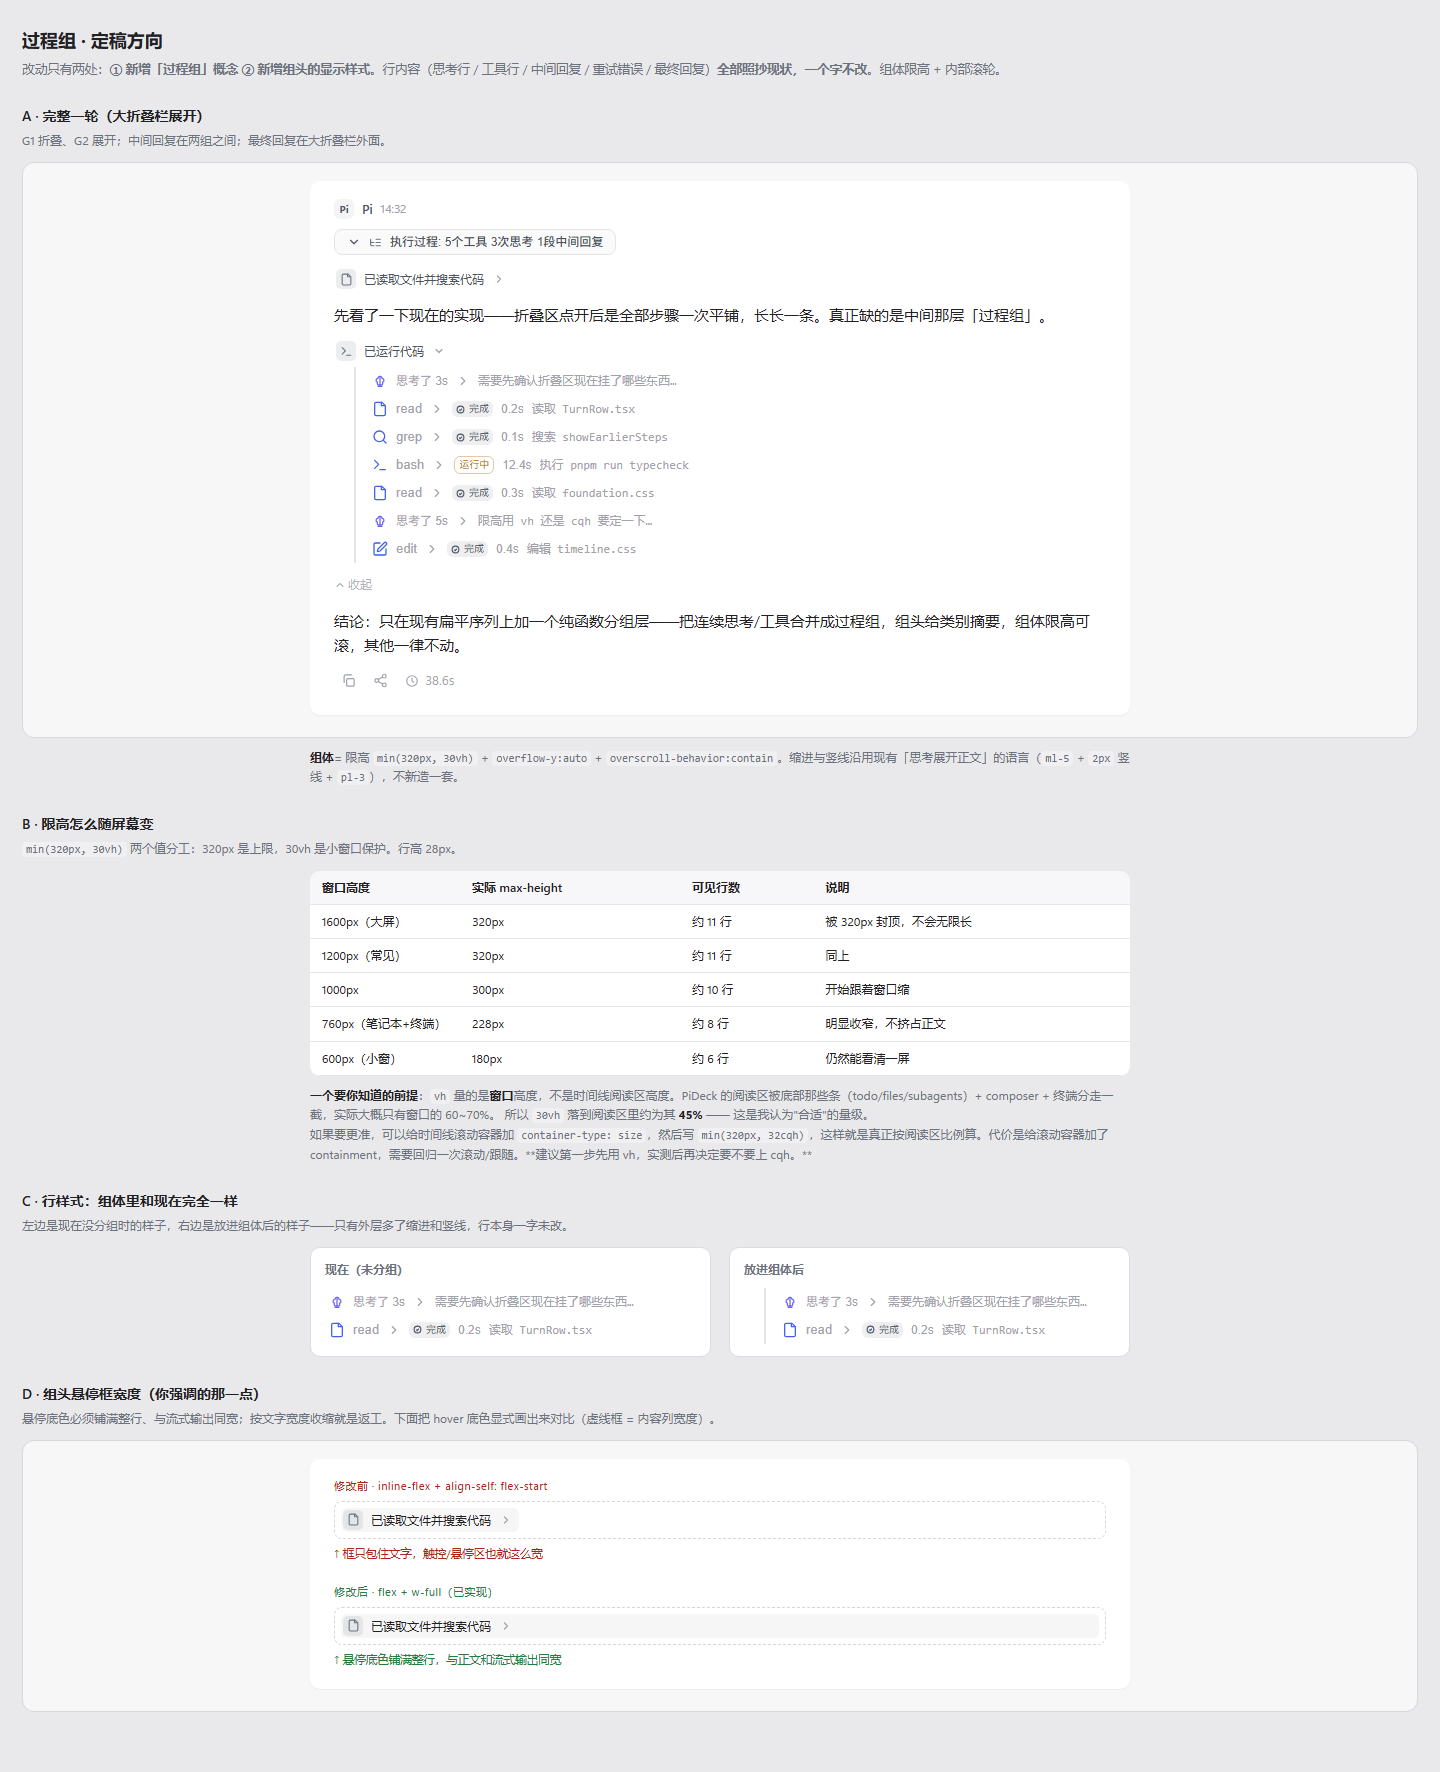
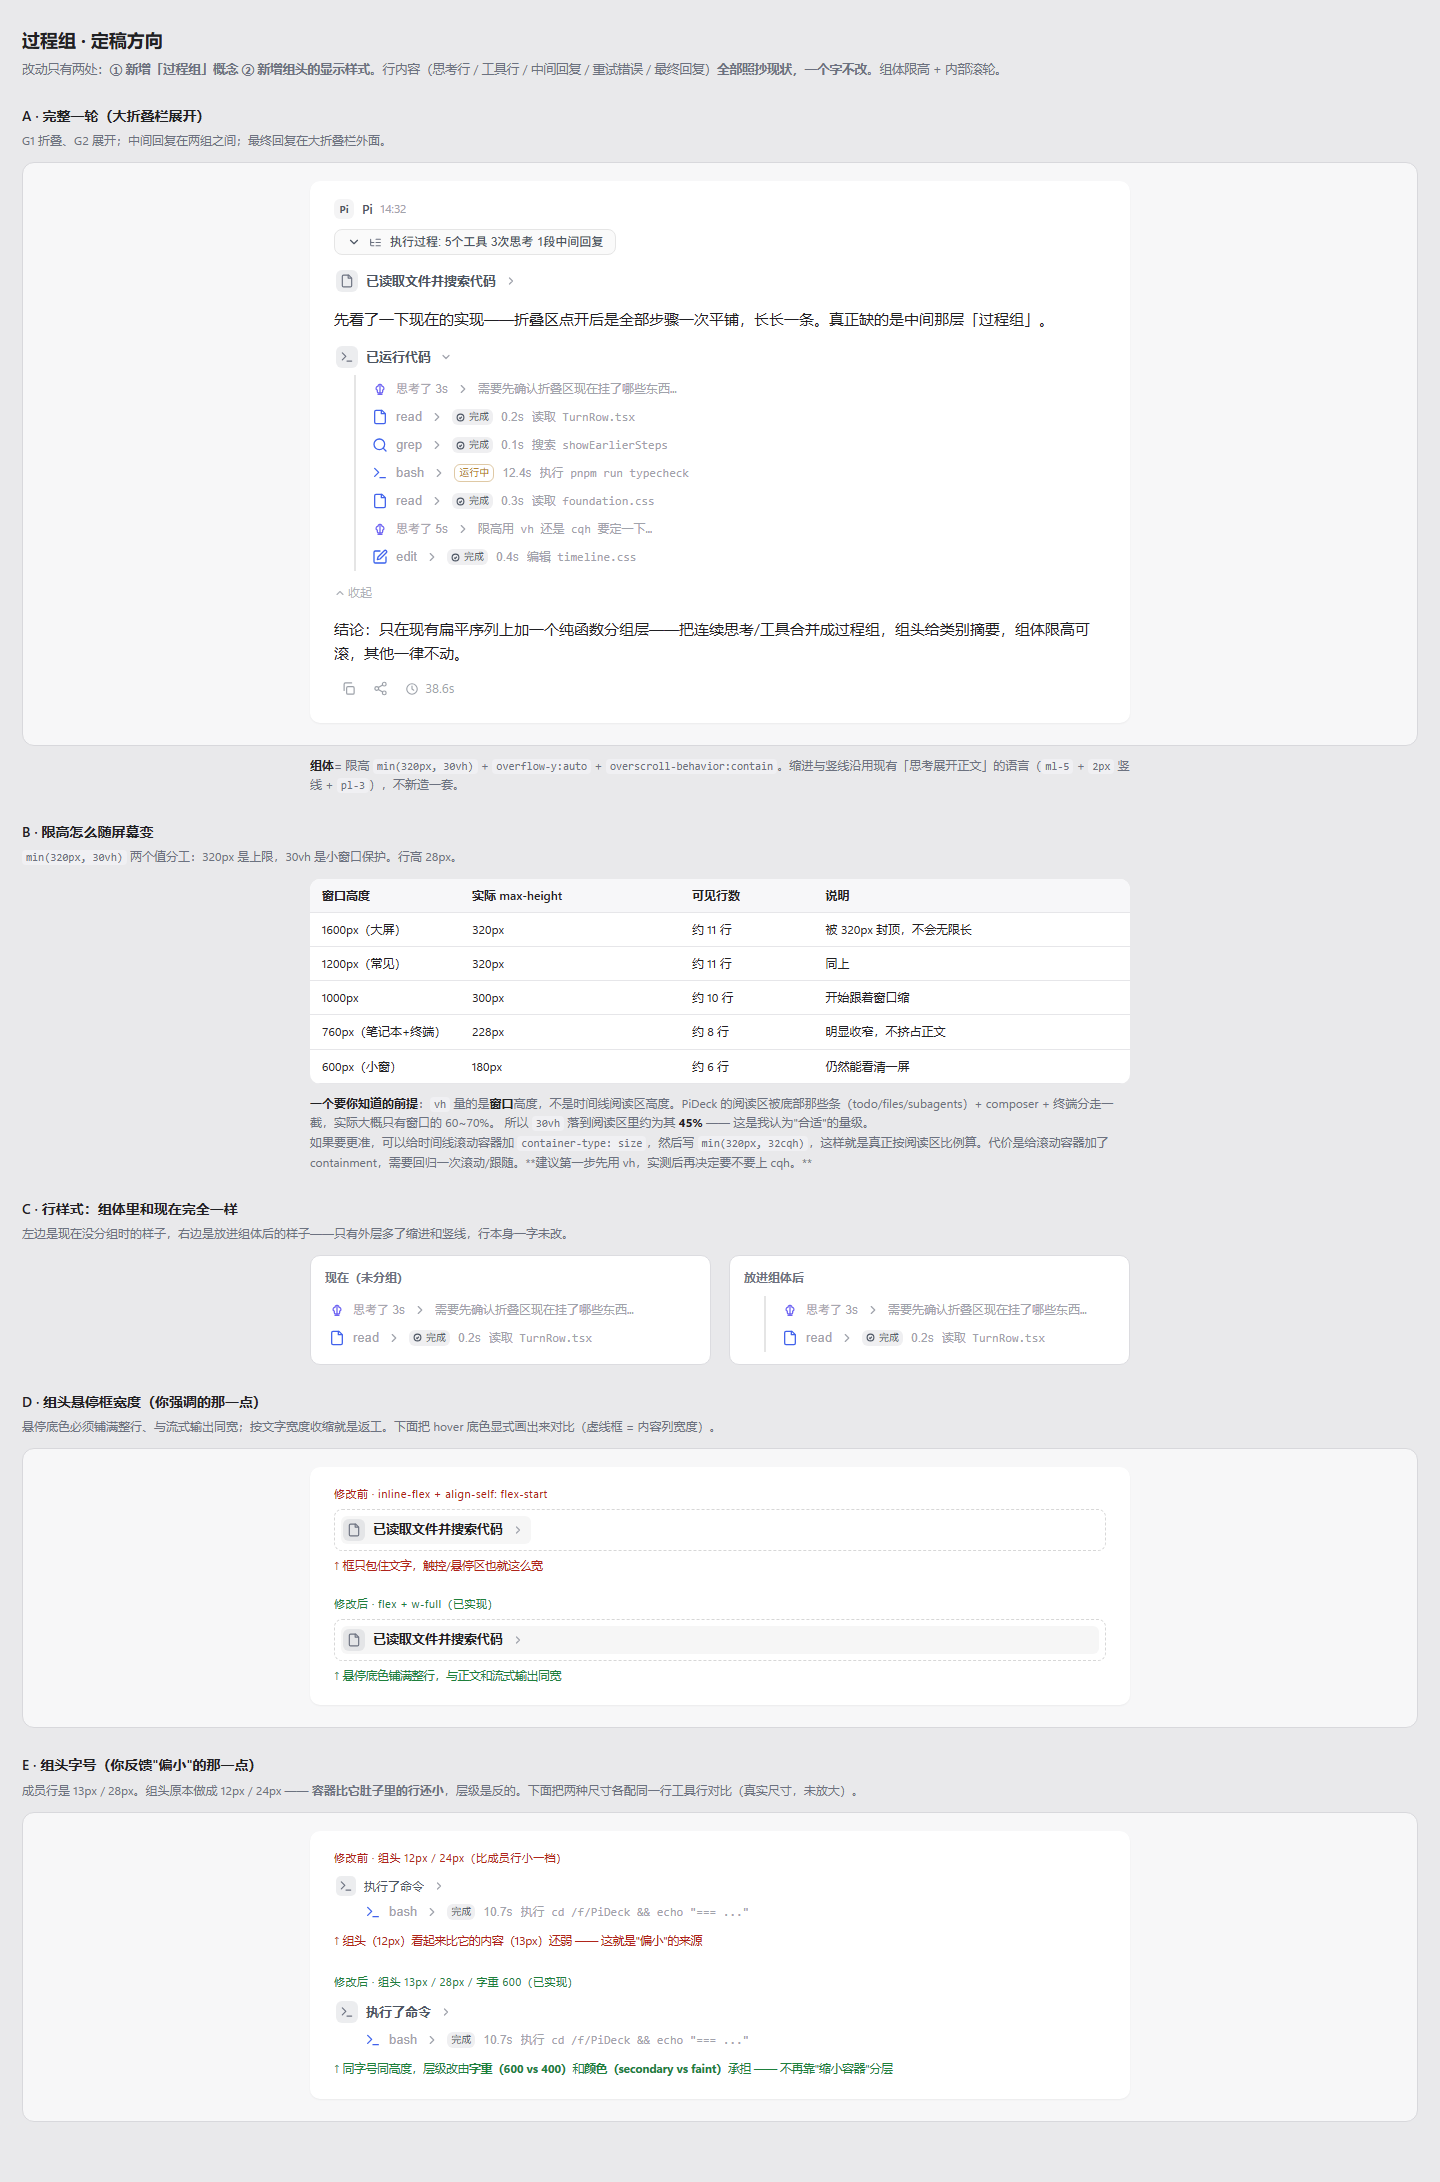
fix(timeline): 组头尺寸不得小于组体内容（容器比内容小 = 层级倒置）
用户反馈「组头字号什么都偏小」。查下来不是选小了一档，而是层级倒置：
组头原本 12px / 24px / 图标 13px，而它肚子里的成员行是 13px / 28px / 图标 16px。

- 组头改 text-control(13px) + h-7(28px) + font-semibold(600)
- 类别图标方块 20px → 22px，方块内图标 13px → 14px
- 运行中详情的 text-[length:11.5px] 换成语义 token text-caption
- 层级改由字重（600 vs 400）与颜色（secondary vs faint）承担，不再靠缩小容器分层
- 新增回归守卫「组头不得小于组体里的行」；契约 §4 补上尺寸规则

根因记录：原先以 .execution-summary-toggle（12px / 26px 的外层胶囊）为对齐基准，
但组头是中间层容器，基准应是它自己的成员行——参照物选错。

顺带：e2e spec 补上 #boot-overlay 等待与 composer 先点击（对齐既有 typewriter.spec.ts）。
另记录一条环境事实：本会话环境存在 ELECTRON_RUN_AS_NODE=1，会让 Electron 退化成普通 Node
（表现为 electron.launch 报 bad option: --remote-debugging-port=0、require("electron") 解析失败），
清掉该变量后 Electron 可正常启动；但既有 typewriter.spec.ts 清掉后仍卡在「启动 Agent」
找不到，属环境 / fixture 限制，与本改动无关。

验证：npm run typecheck（exit 0）；针对性单测 80/80；biome format 2050 文件无待修。

diff --git a/docs/mockups/process-group-scroll.html b/docs/mockups/process-group-scroll.html
@@ -55,9 +55,10 @@
 
 			/* ── 新增：过程组组头 ── */
 			.group { display: flex; flex-direction: column; }
-			.g-head { display: flex; align-items: center; gap: 8px; width: 100%; height: 24px; padding: 0 7px 0 2px; border: 0; border-radius: 6px; background: transparent; color: var(--text-secondary); font: inherit; font-size: var(--font-size-caption); font-weight: 500; line-height: var(--line-height-caption); cursor: pointer; transition: background-color .14s ease, color .14s ease; }
+			.g-head { display: flex; align-items: center; gap: 8px; width: 100%; height: 28px; padding: 0 7px 0 2px; border: 0; border-radius: 6px; background: transparent; color: var(--text-secondary); font: inherit; font-size: var(--font-size-control); font-weight: 600; line-height: var(--line-height-control); cursor: pointer; transition: background-color .14s ease, color .14s ease; }
 			.g-head:hover { background: color-mix(in srgb, var(--text-primary) 4%, transparent); color: var(--text-primary); }
-			.g-chip { flex: none; display: inline-grid; place-items: center; width: 20px; height: 20px; border-radius: 5px; background: color-mix(in srgb, var(--tool) 12%, transparent); color: var(--tool); }
+			.g-chip { flex: none; display: inline-grid; place-items: center; width: 22px; height: 22px; border-radius: 6px; background: color-mix(in srgb, var(--tool) 12%, transparent); color: var(--tool); }
+			.g-chip svg { width: 14px; height: 14px; }
 			.g-head[data-done] .g-chip { background: color-mix(in srgb, var(--text-tertiary) 13%, transparent); color: var(--text-tertiary); }
 			.g-label { min-width: 0; overflow: hidden; text-overflow: ellipsis; white-space: nowrap; }
 			.g-chev { flex: none; display: inline-flex; margin-left: 1px; color: var(--text-faint); }
@@ -316,6 +317,43 @@
 					</button>
 				</div>
 				<div style="color: #15803d; font-size: 11.5px; margin-top: 6px">↑ 悬停底色铺满整行，与正文和流式输出同宽</div>
+			</div>
+		</div>
+		<h2>E · 组头字号（你反馈"偏小"的那一点）</h2>
+		<p class="h2note">成员行是 13px / 28px。组头原本做成 12px / 24px —— <b>容器比它肚子里的行还小</b>，层级是反的。下面把两种尺寸各配同一行工具行对比（真实尺寸，未放大）。</p>
+		<div class="pane">
+			<div class="col">
+				<div style="color: #b42318; font-size: 11px; letter-spacing: .04em; margin-bottom: 8px">修改前 · 组头 12px / 24px（比成员行小一档）</div>
+				<button class="g-head" data-done style="font-size: var(--font-size-caption); font-weight: 500; height: 24px; line-height: var(--line-height-caption)">
+					<span class="g-chip" style="width: 20px; height: 20px; border-radius: 5px"><svg viewBox="0 0 24 24" fill="none" stroke="currentColor" stroke-width="2" stroke-linecap="round" stroke-linejoin="round"><path d="M4 17l6-6-6-6" /><path d="M12 19h8" /></svg></span>
+					<span class="g-label">执行了命令</span>
+					<span class="g-chev"><svg width="12" height="12" viewBox="0 0 24 24" fill="none" stroke="currentColor" stroke-width="2.4" stroke-linecap="round" stroke-linejoin="round"><path d="M9 18l6-6-6-6" /></svg></span>
+				</button>
+				<button class="trow" style="padding-left: 31px">
+					<span class="ico ico-tool"><svg width="16" height="16" viewBox="0 0 24 24" fill="none" stroke="currentColor" stroke-width="1.9" stroke-linecap="round" stroke-linejoin="round"><path d="M4 17l6-6-6-6" /><path d="M12 19h8" /></svg></span>
+					<span class="tname">bash</span>
+					<span class="tchev"><svg width="14" height="14" viewBox="0 0 24 24" fill="none" stroke="currentColor" stroke-width="2" stroke-linecap="round" stroke-linejoin="round"><path d="M9 18l6-6-6-6" /></svg></span>
+					<span class="badge badge--done">完成</span>
+					<span class="tdur">10.7s</span>
+					<span class="tlabel">执行 cd /f/PiDeck &amp;&amp; echo "=== ..."</span>
+				</button>
+				<div style="color: #b42318; font-size: 11.5px; margin-top: 6px">↑ 组头（12px）看起来比它的内容（13px）还弱 —— 这就是"偏小"的来源</div>
+
+				<div style="color: #15803d; font-size: 11px; letter-spacing: .04em; margin: 22px 0 8px">修改后 · 组头 13px / 28px / 字重 600（已实现）</div>
+				<button class="g-head" data-done>
+					<span class="g-chip"><svg viewBox="0 0 24 24" fill="none" stroke="currentColor" stroke-width="2" stroke-linecap="round" stroke-linejoin="round"><path d="M4 17l6-6-6-6" /><path d="M12 19h8" /></svg></span>
+					<span class="g-label">执行了命令</span>
+					<span class="g-chev"><svg width="12" height="12" viewBox="0 0 24 24" fill="none" stroke="currentColor" stroke-width="2.4" stroke-linecap="round" stroke-linejoin="round"><path d="M9 18l6-6-6-6" /></svg></span>
+				</button>
+				<button class="trow" style="padding-left: 31px">
+					<span class="ico ico-tool"><svg width="16" height="16" viewBox="0 0 24 24" fill="none" stroke="currentColor" stroke-width="1.9" stroke-linecap="round" stroke-linejoin="round"><path d="M4 17l6-6-6-6" /><path d="M12 19h8" /></svg></span>
+					<span class="tname">bash</span>
+					<span class="tchev"><svg width="14" height="14" viewBox="0 0 24 24" fill="none" stroke="currentColor" stroke-width="2" stroke-linecap="round" stroke-linejoin="round"><path d="M9 18l6-6-6-6" /></svg></span>
+					<span class="badge badge--done">完成</span>
+					<span class="tdur">10.7s</span>
+					<span class="tlabel">执行 cd /f/PiDeck &amp;&amp; echo "=== ..."</span>
+				</button>
+				<div style="color: #15803d; font-size: 11.5px; margin-top: 6px">↑ 同字号同高度，层级改由<b>字重（600 vs 400）</b>和<b>颜色（secondary vs faint）</b>承担 —— 不再靠"缩小容器"分层</div>
 			</div>
 		</div>
 	</body>

diff --git a/src/renderer/src/components/session/turn/ProcessGroupStep.tsx b/src/renderer/src/components/session/turn/ProcessGroupStep.tsx
@@ -140,19 +140,22 @@ export const ProcessGroupStep = memo(function ProcessGroupStep(props: ProcessGro
 	return (
 		<div className="flex min-w-0 flex-col" data-process-group-id={props.group.id}>
 			{/* 组头：w-full 占满内容列（与流式输出同宽），hover 底色因此铺满整行；
-			    内部与现有过程行同构：20px 类别图标方块 → 文案 → chevron，左对齐右侧留白。
+			    内部与现有过程行同构：22px 类别图标方块 → 文案 → chevron，左对齐右侧留白。
+			    尺寸规则（2026 用户反馈修正）：组头**不得小于组体里的行**——成员行是
+			    text-control(13px)/min-h-7(28px)/图标 16px，组头取同档 13px/28px 才不会出现
+			    「容器比内容小」的倒置层级；层级改由字重（600 vs 400）与颜色（secondary vs faint）承担。
 			    data-process-group-head 是 e2e/结构测试的稳定锚点（组头、组体、scroller 各一个）。 */}
 			<button
 				type="button"
 				data-process-group-head=""
-				className="flex h-6 w-full min-w-0 cursor-pointer items-center gap-2 rounded-md pl-0.5 pr-[7px] text-left text-caption font-medium text-text-secondary transition-colors duration-150 hover:bg-[color:color-mix(in_srgb,var(--color-text-primary)_4%,transparent)] hover:text-text-primary focus-visible:-outline-offset-2 focus-visible:outline-2 focus-visible:outline-[var(--focus-ring)]"
+				className="flex h-7 w-full min-w-0 cursor-pointer items-center gap-2 rounded-md pl-0.5 pr-[7px] text-left text-control font-semibold text-text-secondary transition-colors duration-150 hover:bg-[color:color-mix(in_srgb,var(--color-text-primary)_4%,transparent)] hover:text-text-primary focus-visible:-outline-offset-2 focus-visible:outline-2 focus-visible:outline-[var(--focus-ring)]"
 				aria-expanded={props.open}
 				aria-controls={bodyId}
 				onClick={() => props.onToggle(!props.open)}
 			>
 				{/* 类别图标方块：运行中 = 工具身份色（12% 透明底 + 该色图标），已结束 = 中性灰（弱化） */}
-				<span aria-hidden="true" className={`grid size-5 shrink-0 place-items-center rounded-[5px] ${props.running ? "bg-[color:color-mix(in_srgb,var(--color-tool)_12%,transparent)] text-[var(--color-tool)]" : "bg-[color:color-mix(in_srgb,var(--color-text-tertiary)_13%,transparent)] text-text-tertiary"}`}>
-					<Icon size={13} aria-hidden="true" />
+				<span aria-hidden="true" className={`grid size-[22px] shrink-0 place-items-center rounded-md ${props.running ? "bg-[color:color-mix(in_srgb,var(--color-tool)_12%,transparent)] text-[var(--color-tool)]" : "bg-[color:color-mix(in_srgb,var(--color-text-tertiary)_13%,transparent)] text-text-tertiary"}`}>
+					<Icon size={14} aria-hidden="true" />
 				</span>
 				{props.running ? (
 					<>
@@ -162,7 +165,7 @@ export const ProcessGroupStep = memo(function ProcessGroupStep(props: ProcessGro
 								<span aria-hidden="true" className="shrink-0 text-text-faint">
 									{t("timeline.processGroup.separator")}
 								</span>
-								<span className="min-w-0 overflow-hidden text-ellipsis whitespace-nowrap font-mono text-[length:11.5px] font-normal text-text-tertiary">{detail}</span>
+								<span className="min-w-0 overflow-hidden text-ellipsis whitespace-nowrap font-mono text-caption font-normal text-text-tertiary">{detail}</span>
 							</>
 						)}
 					</>

diff --git a/e2e/process-group-display.spec.ts b/e2e/process-group-display.spec.ts
@@ -31,9 +31,15 @@ async function startAgent(window: Page) {
 	return composer;
 }
 
-/** 发送一条同时触发思考与工具调用的消息。 */
+/**
+ * 发送一条同时触发思考与工具调用的消息。
+ * 前置两步与既有 e2e（typewriter.spec.ts）一致：先等启动遮罩消失、再点 composer 取焦点，
+ * 否则 `启动 Agent` 根本还没渲染出来（首帧只有窗口控制按钮）。
+ */
 async function runProcessTurn(window: Page) {
-	await startAgent(window);
+	await expect(window.locator("#boot-overlay")).toHaveCount(0, { timeout: 20_000 });
+	const composer = await startAgent(window);
+	await composer.click();
 	await window.keyboard.type("THINK TOOL 过程组验证");
 	await window.keyboard.press("Enter");
 }
@@ -42,6 +48,7 @@ test.describe("开关开启：过程组显示", () => {
 	test.use({ seedSettings: { processGroupDisplay: true } });
 
 	test("组头与内容列同宽，且组体限高真的生效", async ({ window }) => {
+		test.setTimeout(90_000);
 		await runProcessTurn(window);
 
 		const head = window.locator("[data-process-group-head]").first();
@@ -79,6 +86,7 @@ test.describe("开关开启：过程组显示", () => {
 
 test.describe("默认（开关关闭）", () => {
 	test("不出现过程组，保持原平铺渲染", async ({ window }) => {
+		test.setTimeout(90_000);
 		await runProcessTurn(window);
 
 		// 平铺路径的折叠汇总按钮出现 → 这一轮确实有过程内容

diff --git a/docs/process-group-implementation-contract.md b/docs/process-group-implementation-contract.md
@@ -187,7 +187,8 @@ export const ProcessGroupStep = memo(function ProcessGroupStep(props: ProcessGro
 ```
 
 渲染要求：
-- **组头是一个 `<button>`，宽度必须 `w-full`**（占满内容列，与流式输出同宽），悬停底色也随之铺满整行 —— **不要出现「文字多宽、框就多宽」**。内部布局与现有过程行同构：左起 20px 类别图标方块 → 类别文案 → chevron。
+- **组头是一个 `<button>`，宽度必须 `w-full`**（占满内容列，与流式输出同宽），悬停底色也随之铺满整行 —— **不要出现「文字多宽、框就多宽」**。内部布局与现有过程行同构：左起 22px 类别图标方块（图标 14px）→ 类别文案 → chevron。
+- **组头尺寸不得小于组体里的行**（2026 用户反馈修正）：成员行是 `text-control`(13px) / `min-h-7`(28px) / 图标 16px，所以组头取 `text-control` + `h-7` + `font-semibold`。**禁止退回 `text-caption`(12px) + `h-6`(24px)**——那会造成「容器比内容小」的倒置层级，用户一眼就觉得组头偏小。层级改由**字重（600 vs 400）与颜色（`text-secondary` vs `text-faint`）**承担，而不是缩小容器。回归守卫：`tests/processGroupRendering.test.mjs` 的「组头不得小于组体里的行」。
 - 组头文案：
   - `running === true`：`t(activityCategoryLabelKey(topKind, "running"))` + 若有实时详情则追加 `t("timeline.processGroup.separator")` + 详情；文案走 `<ShimmerText>`（复用 `src/renderer/src/components/session/ShimmerText.tsx`）。
   - 已结束：`topActivityKinds(group.counts, 3)` → 分别取 `done` 文案，按 `joinTwo` / `joinList` + `listSeparator` 组装；超过 3 类用 `more` 包裹；**`counts` 为空且有思考时**用 `t("timeline.processGroup.analyzed")`。
